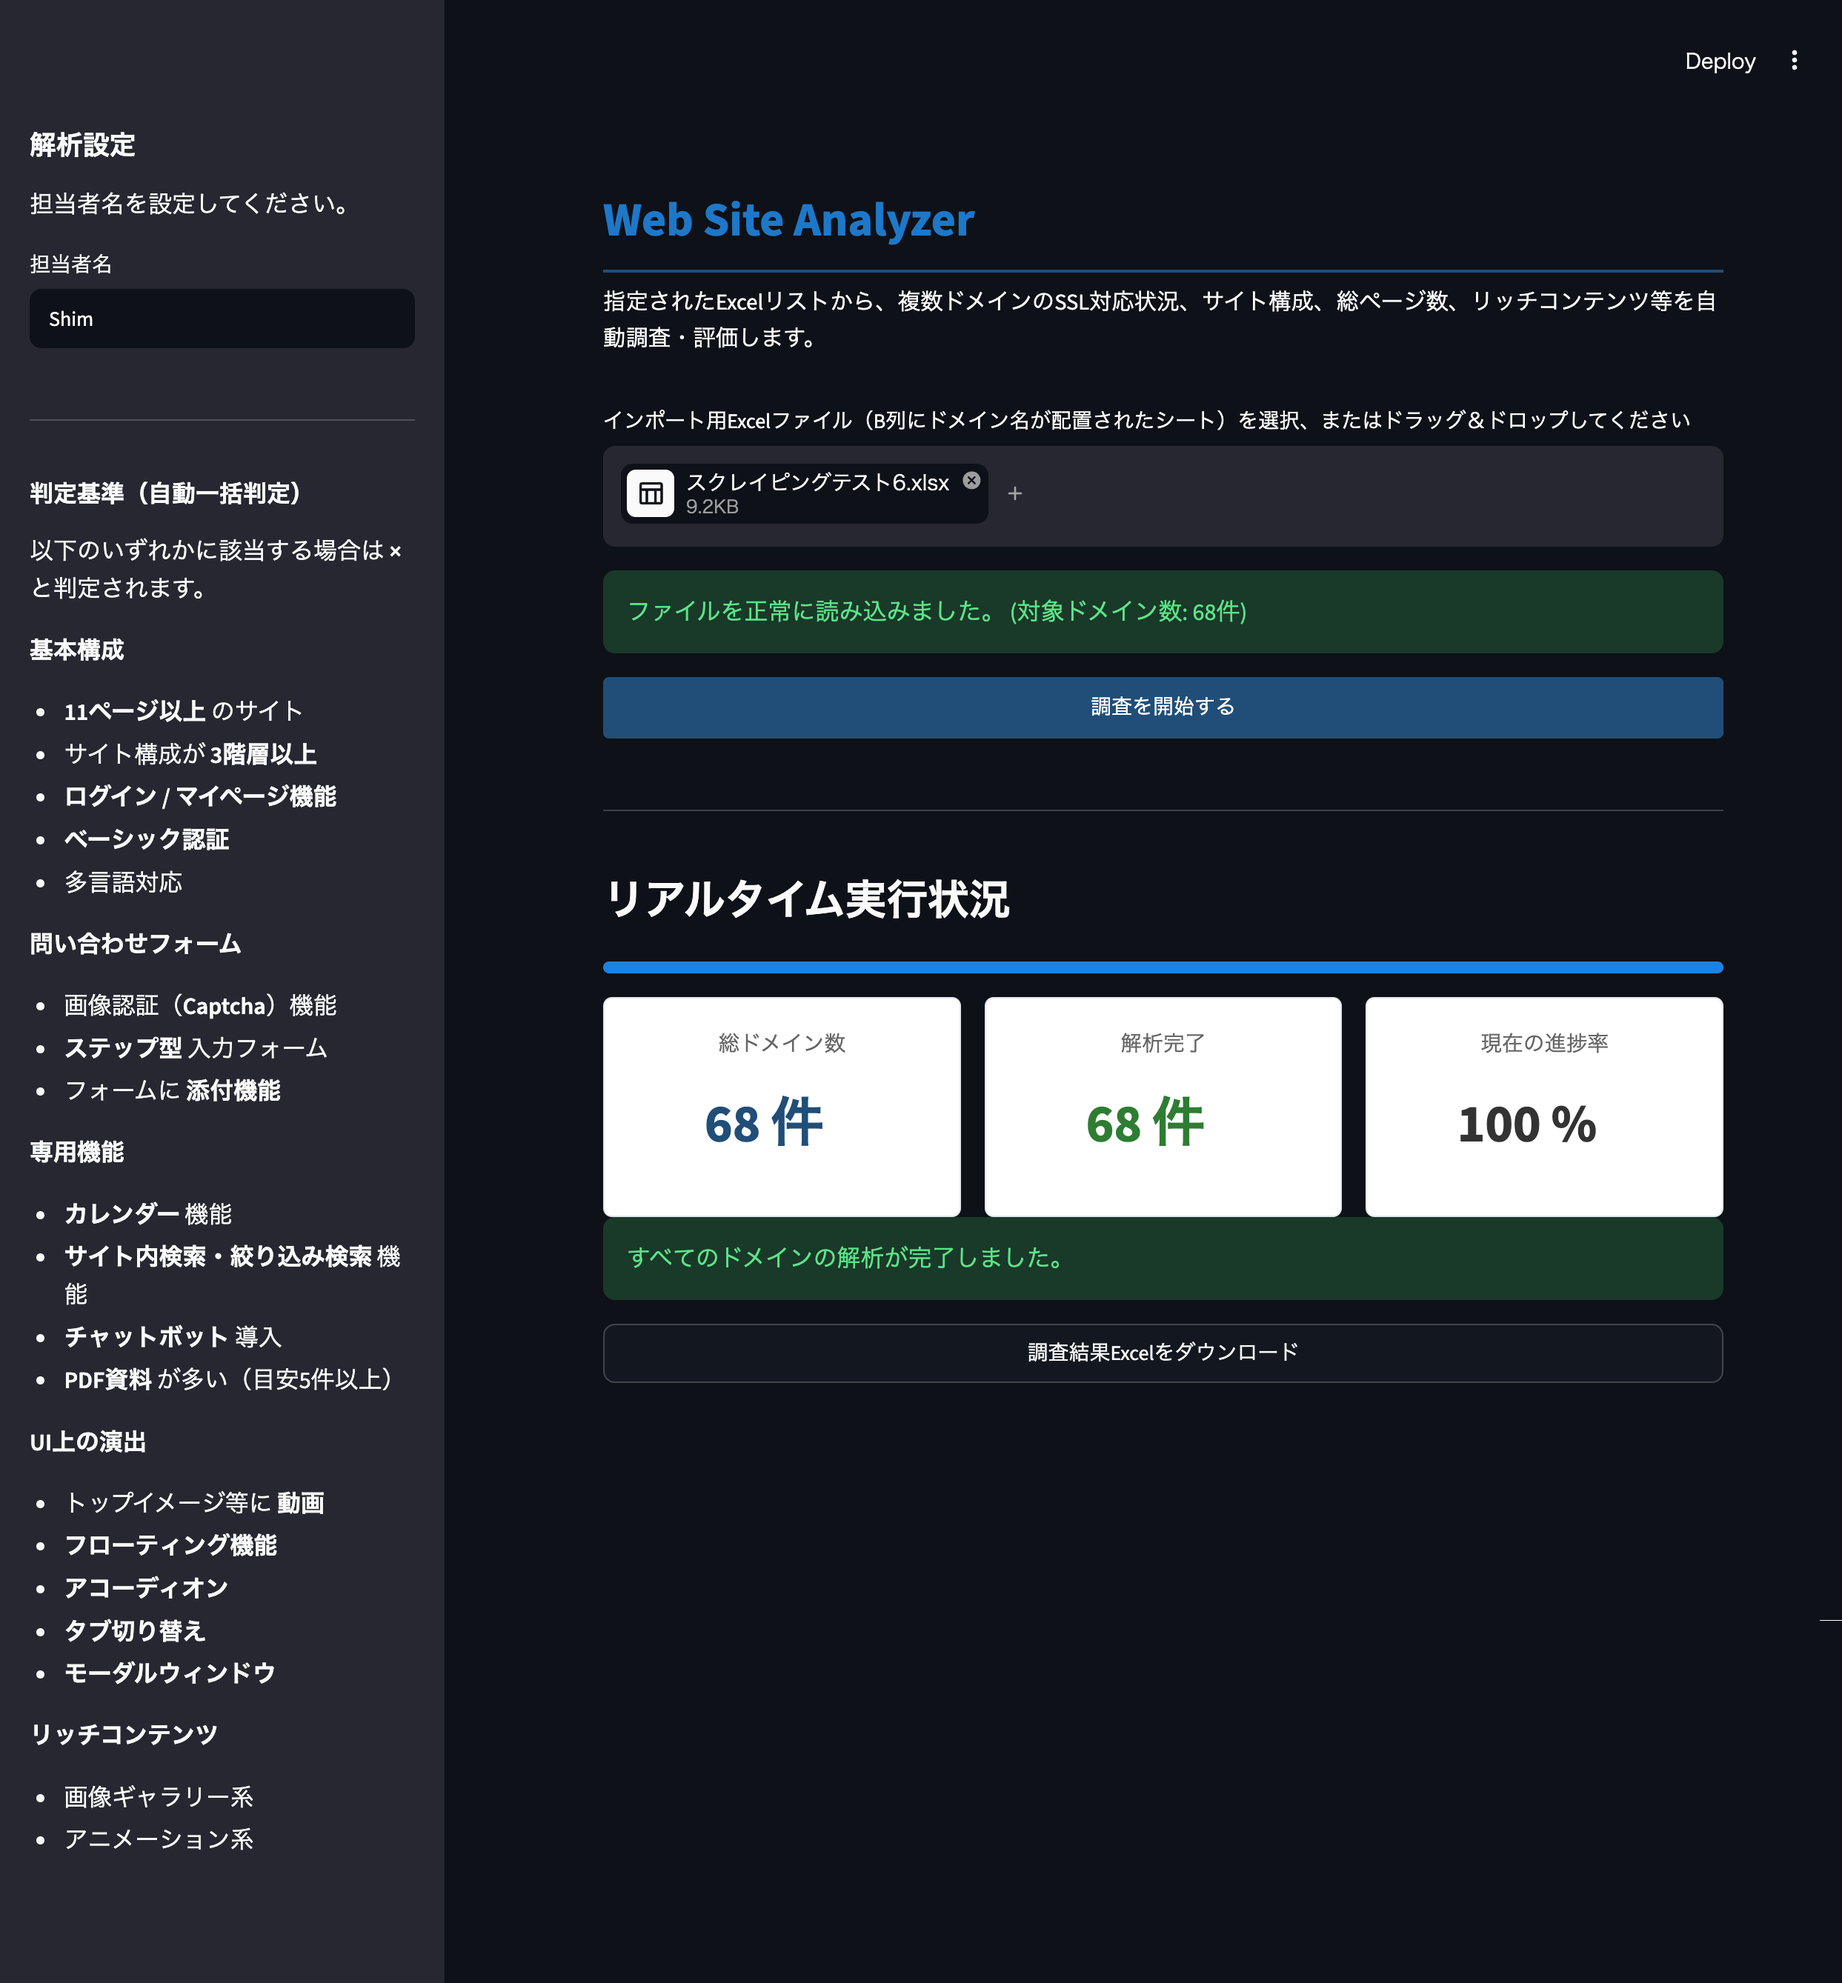
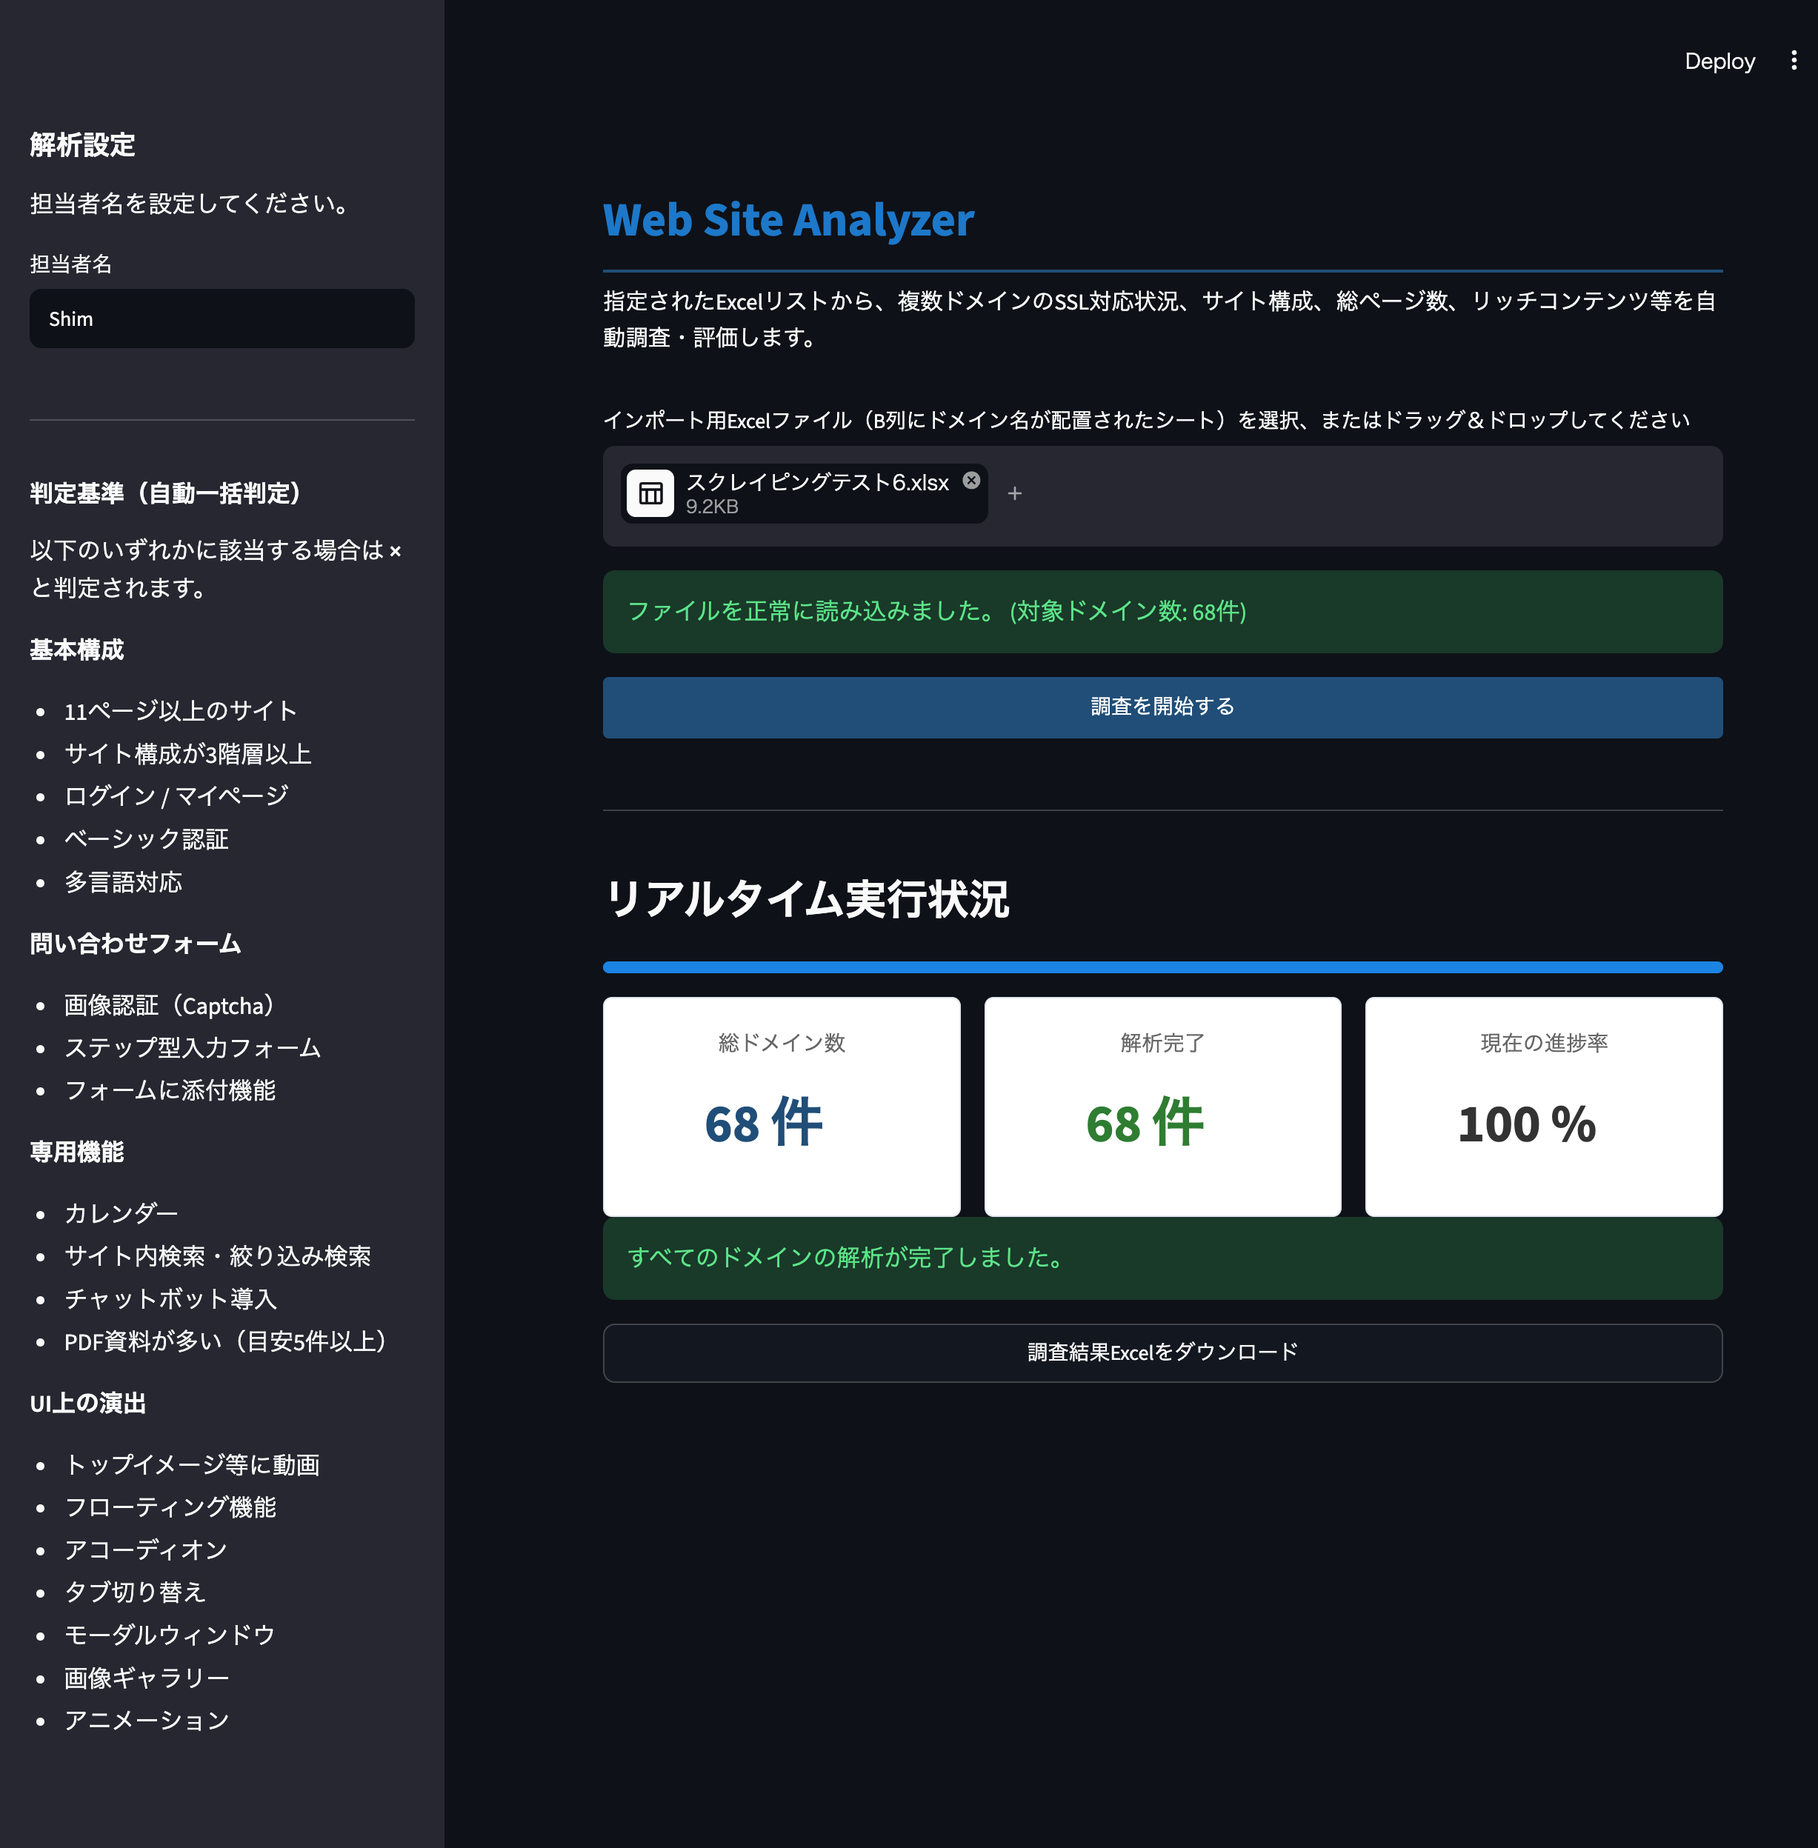
refactor: update sidebar text

diff --git a/src/web_analyzer/main.py b/src/web_analyzer/main.py
@@ -86,33 +86,31 @@ with st.sidebar:
         以下のいずれかに該当する場合は **×** と判定されます。
 
         **基本構成**
-        * **11ページ以上** のサイト
-        * サイト構成が **3階層以上**
-        * **ログイン / マイページ機能**
-        * **ベーシック認証**
+        * 11ページ以上のサイト
+        * サイト構成が3階層以上
+        * ログイン / マイページ
+        * ベーシック認証
         * 多言語対応
 
         **問い合わせフォーム**
-        * 画像認証（**Captcha**）機能
-        * **ステップ型** 入力フォーム
-        * フォームに **添付機能**
+        * 画像認証（Captcha）
+        * ステップ型入力フォーム
+        * フォームに添付機能
 
         **専用機能**
-        * **カレンダー** 機能
-        * **サイト内検索・絞り込み検索** 機能
-        * **チャットボット** 導入
-        * **PDF資料** が多い（目安5件以上）
+        * カレンダー
+        * サイト内検索・絞り込み検索
+        * チャットボット導入
+        * PDF資料が多い（目安5件以上）
 
         **UI上の演出**
-        * トップイメージ等に **動画**
-        * **フローティング機能**
-        * **アコーディオン**
-        * **タブ切り替え**
-        * **モーダルウィンドウ**
-
-        **リッチコンテンツ**
-        * 画像ギャラリー系
-        * アニメーション系
+        * トップイメージ等に動画
+        * フローティング機能
+        * アコーディオン
+        * タブ切り替え
+        * モーダルウィンドウ
+        * 画像ギャラリー
+        * アニメーション
         """
     )
 
